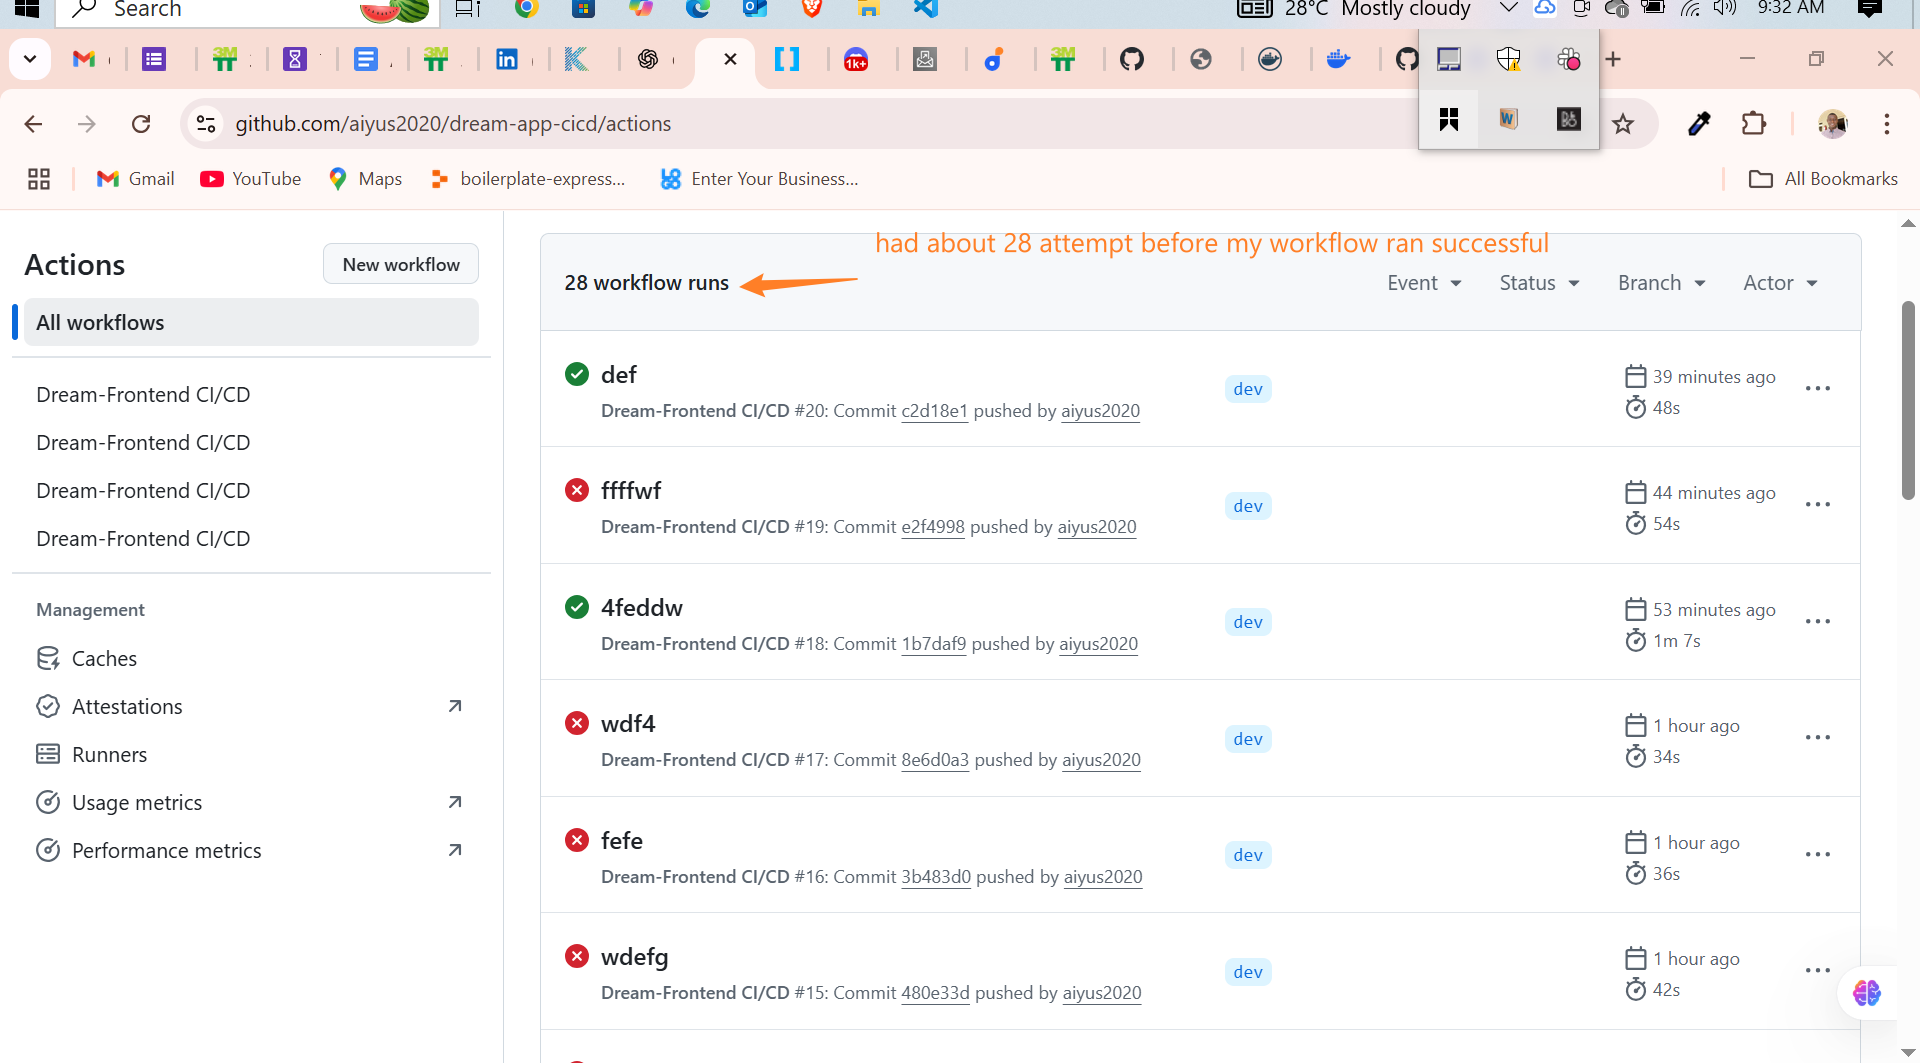
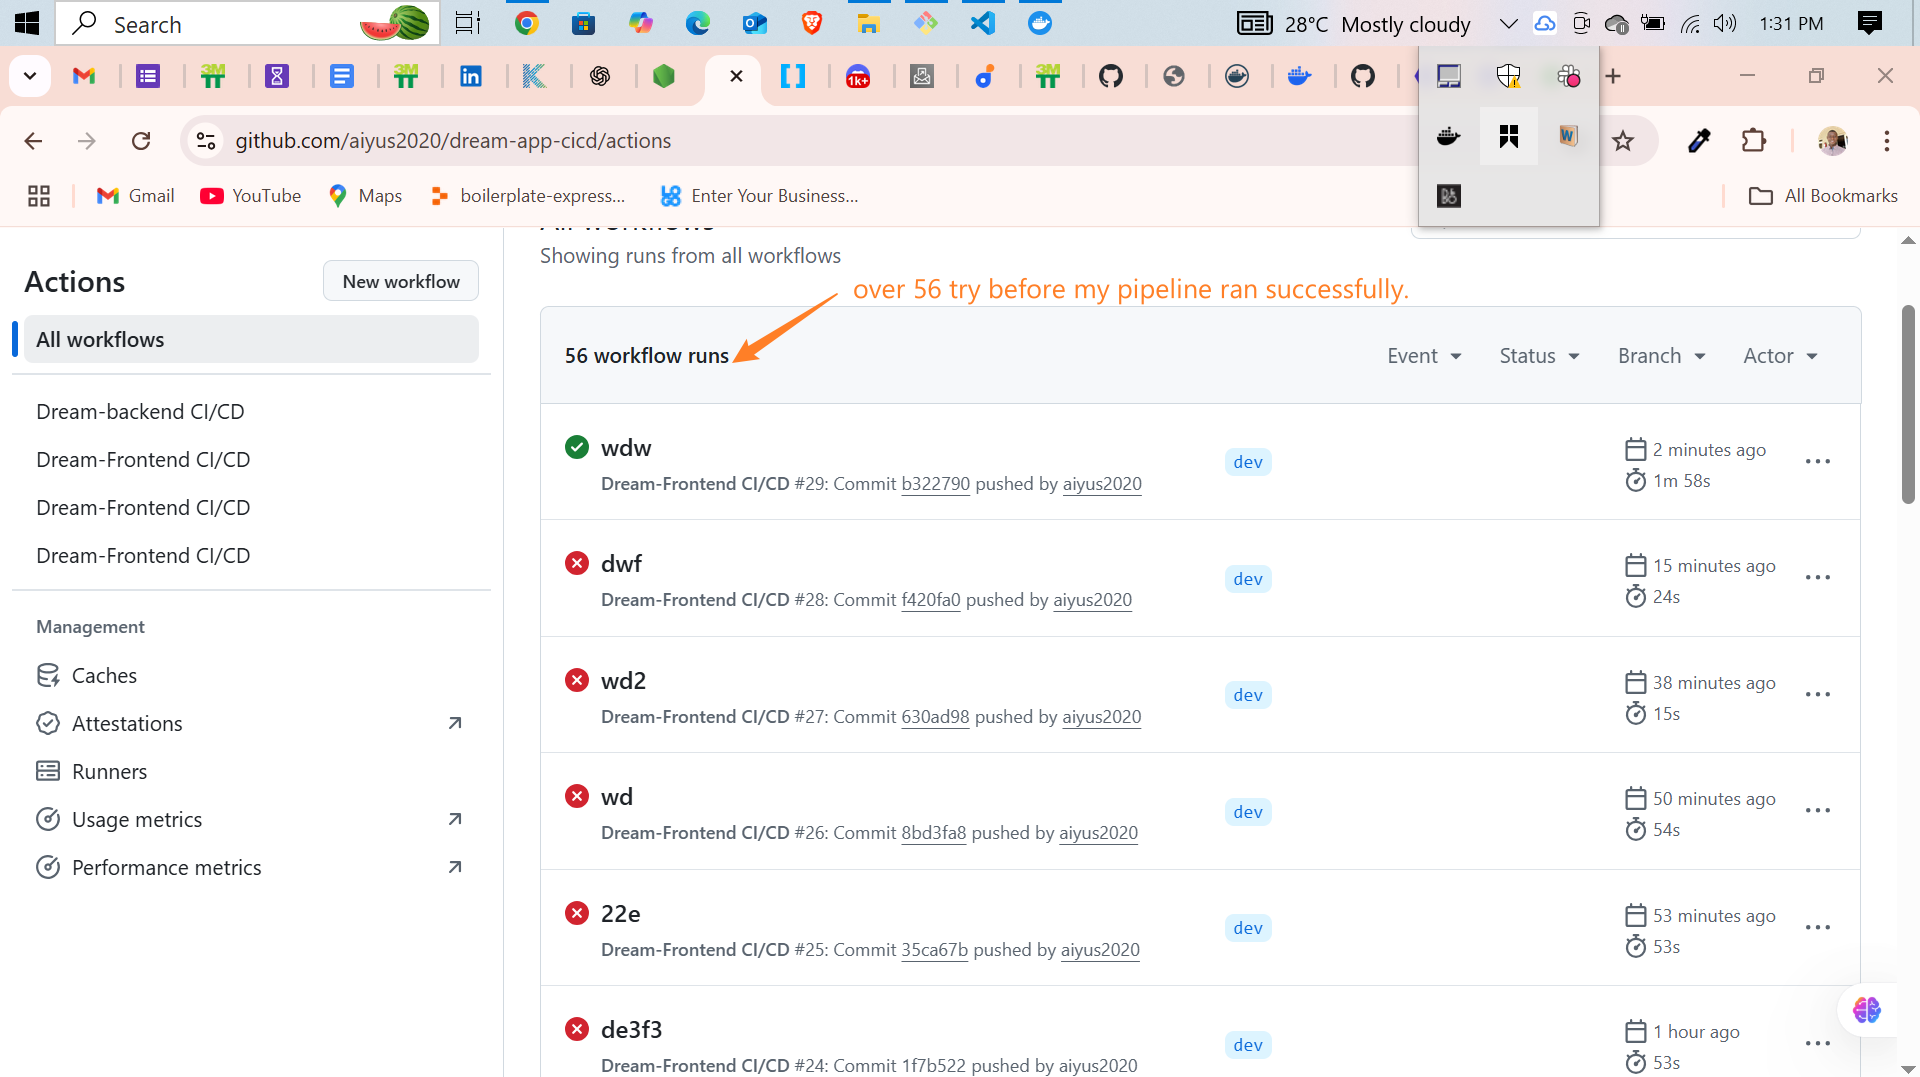
dream-vacation-app

diff --git a/frontend/public/index.html b/frontend/public/index.html
@@ -7,7 +7,7 @@
     <meta name="theme-color" content="#000000" />
     <meta
       name="description"
-      content="Dream Vacation Destinations App"
+      content="Dream Vacations Destinations App"
     />
     <link rel="manifest" href="%PUBLIC_URL%/manifest.json" />
     <title>Dream Vacations Destinatfions</title>

diff --git a/backend/server.js b/backend/server.js
@@ -56,5 +56,5 @@ app.delete('/api/destinations/:id', async (req, res) => {
 });
 
 app.listen(port, () => {
-  console.log(`Server running son port ${port}`);
+  console.log(`Server running on port ${port}`);
 });
